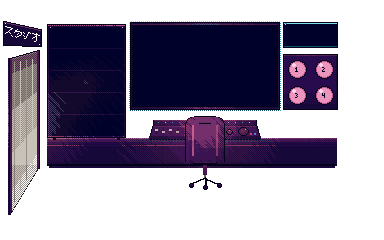
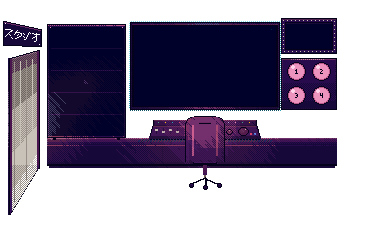
編集室v3: 数字のセンター / 看板のパース / 電飾マーキー
- 数字ボタン: 3x5の字形は中心-1,-2 が真ん中。1pxの左寄りを修正し、4つとも実測ズレ0を確認
  ついでに読みにくかった「3」の中棒を右へつないだ
- 看板「スタジオ」: 上辺+5の上寄せをやめ、列ごとにプレートの中心線へ縦センタリング。
  パースの傾きに沿って本当に描いてあるように見える
  (縦・縦横をパース縮小する案も試作したが9px→6pxで「ジ」の濁点と「オ」が崩れるため不採用)
- 右上を「電飾マーキー」に。小さな電球41個がぐるりと囲み4コマで流れる。
  この部屋の看板として「コンテンツクリエイティブ」を常時掲示(選択で書き換えない)
- 数字ボタンパネルをマーキーの下へ再配置し、ボタンを19pxに

Changed region(s): [[0.7188, 0.0583, 0.9062, 0.4667], [0.0, 0.1167, 0.0938, 0.175]]

diff --git a/contents.html b/contents.html
@@ -37,7 +37,7 @@
 
   /* ─── 重なり順をここで一元管理(レイヤー事故防止) ─── */
   #room { z-index: 1; }
-  #doorGlowStudio, #editblink, #screenglow { z-index: 2; }
+  #doorGlowStudio, #editblink, #marqblink, #screenglow { z-index: 2; }
   #screenbox { z-index: 3; }
   .hs, .mi, .nb, #catname { z-index: 4; }
   #mshadow, #mayu, #pshadow, #patti { z-index: 5; }
@@ -119,6 +119,22 @@
   }
   @media (prefers-reduced-motion: reduce) { #editblink { animation: none; } }
 
+  /* ─── 電飾マーキーの電球がぐるりと流れる(4コマ) ─── */
+  #marqblink {
+    position: absolute; left: 0; top: 18px;
+    width: 384px; height: 36px; pointer-events: none;
+    background-image: url(marquee_blink.png);
+    background-size: 1536px 36px;
+    animation: marqblink 1.0s steps(1) infinite;
+  }
+  @keyframes marqblink {
+    0%, 24.9% { background-position: 0 0; }
+    25%, 49.9% { background-position: -384px 0; }
+    50%, 74.9% { background-position: -768px 0; }
+    75%, 100% { background-position: -1152px 0; }
+  }
+  @media (prefers-reduced-motion: reduce) { #marqblink { animation: none; } }
+
   /* ─── 大スクリーン(中身はここに載る) ─── */
   #screenbox {
     position: absolute; left: 134px; top: 26px;
@@ -191,10 +207,11 @@
 
   /* ─── 右のカテゴリ表示と数字ボタン ─── */
   #catname {
-    position: absolute; left: 286px; top: 24px; width: 49px; height: 22px;
+    position: absolute; left: 286px; top: 23px; width: 46px; height: 26px;
     display: flex; align-items: center; justify-content: center;
     font-family: 'DotGothic16', 'MS Gothic', monospace;
-    color: #b8ecf4; font-size: 6px; line-height: 1.35; text-align: center;
+    color: #fff6e0; font-size: 6px; line-height: 1.6; text-align: center;
+    text-shadow: 0 0 3px rgba(255, 232, 176, .55);
     pointer-events: none;
   }
   .nb {
@@ -353,6 +370,7 @@
     <img id="room" src="room_edit.png" alt="編集室">
     <div id="doorGlowStudio" aria-hidden="true"></div>
     <div id="editblink" aria-hidden="true"></div>
+    <div id="marqblink" aria-hidden="true"></div>
     <div id="screenglow" aria-hidden="true"></div>
 
     <div id="screenbox">
@@ -375,7 +393,7 @@
     <button id="doorStudio" class="hs" style="left:8px;top:48px;width:33px;height:168px;--gi:.4"
             aria-label="スタジオ(トップページ)にもどる"></button>
 
-    <div id="catname" aria-live="polite"></div>
+    <div id="catname">コンテンツ<br>クリエイティブ</div>
 
     <div id="talkbox">
       <span class="name">パッチ</span>
@@ -465,13 +483,12 @@ const CATS = [
 ];
 
 const MENU_TOP = 26, MENU_H = 22;
-const BTN_POS = [[288, 60], [315, 60], [288, 86], [315, 86]];   // 丸ボタン(18x18)の左上
+const BTN_POS = [[287, 62], [312, 62], [287, 86], [312, 86]];   // 丸ボタン(19x19)の左上
 
 const scrwait = document.getElementById('scrwait');
 const scrframe = document.getElementById('scrframe');
 const bookbox = document.getElementById('bookbox');
 const screenglow = document.getElementById('screenglow');
-const catname = document.getElementById('catname');
 
 let cat = 0, num = -1;
 let BOOK = null, bkpage = 0;
@@ -548,7 +565,6 @@ function stopScreen() {
 function selectCat(i) {
   cat = i;
   miEls.forEach((b, k) => b.classList.toggle('sel', k === i));
-  catname.innerHTML = CATS[i].disp;
   nbEls.forEach((b, j) => b.classList.toggle('off', !CATS[i].items[j]));
   stopScreen();
   if (CATS[i].items.length === 0) {

diff --git a/make_room_edit.py b/make_room_edit.py
@@ -101,7 +101,7 @@ def dpatch(l, x, y, w, h, c, den=2, ph=0):
 # 数字(5x5) - 数字ボタン用
 NFONT = {
  '1': "010 110 010 010 111", '2': "110 001 010 100 111",
- '3': "110 001 010 001 110", '4': "101 101 111 001 001",
+ '3': "110 001 011 001 110", '4': "101 101 111 001 001",
 }
 def NTXT(l, x, y, ch, c):
     rows = NFONT[ch].split()
@@ -112,9 +112,9 @@ def NTXT(l, x, y, ch, c):
 # ═══════════════ 主要座標(ここだけ見れば配置が分かる) ═══════════════
 MENU = (47, 24, 79, 114)        # メニューパネル外形 x,y,w,h (デスクに立つボード)
 SCR  = (134, 26, 142, 80)       # スクリーン画面(16:9, センター205=チェアと同心)
-CATP = (283, 22, 55, 26)        # カテゴリ名表示パネル
-BTNP = (283, 54, 55, 56)        # 数字ボタンパネル
-BTNC = [(297, 69), (324, 69), (297, 95), (324, 95)]   # 丸ボタン中心(18px)
+MARQ = (281, 18, 56, 36)        # 電飾マーキー(コンテンツクリエイティブの掲示板)
+BTNP = (281, 58, 56, 52)        # 数字ボタンパネル
+BTNC = [(296, 71), (321, 71), (296, 95), (321, 95)]   # 丸ボタン中心(19px)
 DESK_Y = 138                    # 編集卓の天板
 CHAIR = (185, 116)              # ゲーミングチェア左上(センター205)
 EDITC = (150, 120, 110)         # 編集機 x,y,幅 (センター205)
@@ -251,7 +251,11 @@ for k in range(4):
     R('furniture', 14 + k * 6, 62 - k, 1, 140 - k * 10, 'gray2' if k % 2 else 'gray1')
 
 # ─── 左の看板: スタジオ(白の電飾・TOPの看板と同じ台形様式) ───
-def bake_sign_img(img_name, x0, x1, ytop_fn, yoff, core):
+def bake_sign_img(img_name, x0, x1, ytop_fn, ybot_fn, core):
+    """プレート(台形)に文字が「描いてある」ように焼く。
+    列ごとにプレートの中心線へ縦センタリングするので、パースの傾きに自然に沿う。
+    文字を縦に縮小するパースも試したが、9pxの字が6pxまで潰れて
+    「ジ」の濁点と「オ」が崩れるため、字高は一定にしている。"""
     m = Image.open(os.path.join(WEB, img_name)).convert('RGBA')
     tw, th = m.size
     ox = x0 + (x1 - x0 + 1 - tw) // 2
@@ -260,15 +264,17 @@ def bake_sign_img(img_name, x0, x1, ytop_fn, yoff, core):
         for gx in range(tw):
             if mp[gx, gy][3] > 0:
                 xx = ox + gx
-                PXL('furniture', xx, ytop_fn(xx) + yoff + gy, core)
+                cy_ = (ytop_fn(xx) + ybot_fn(xx)) / 2.0
+                PXL('furniture', xx, int(cy_ - th / 2.0 + 0.5) + gy, core)
 
 obj('スタジオの看板')
 def signS_top(xx):
     return int(21 + 8 * (xx - 4) / 36.0 + 0.5)
+def signS_bot(xx):
+    return int(45 + 1 * (xx - 4) / 36.0 + 0.5)
 for xx in range(4, 41):
-    t = (xx - 4) / 36.0
     ytopS = signS_top(xx)
-    ybotS = int(45 + 1 * t + 0.5)
+    ybotS = signS_bot(xx)
     for yy in range(ytopS, ybotS + 1):
         if yy == ytopS or yy == ybotS:
             c = 'ink'
@@ -281,7 +287,7 @@ for xx in range(4, 41):
         PXL('furniture', xx, yy, c)
 R('furniture', 3, 21, 1, 25, 'ink'); R('furniture', 41, 29, 1, 18, 'ink')
 PXL('furniture', 5, 23, 'wht'); PXL('furniture', 39, 44, 'wht')
-bake_sign_img('sign_studio_s.png', 4, 40, signS_top, 5, 'wht')
+bake_sign_img('sign_studio_s.png', 4, 40, signS_top, signS_bot, 'wht')
 
 # ─── 奥壁: 大スクリーン(壁掛け・16:9) ───
 obj('大スクリーン')
@@ -302,13 +308,25 @@ for yy in range(sy - 3, sy + sh + 3, 2):
     PXL('furniture', sx + sw + 4, yy, 'cyn0')
 PXL('furniture', sx - 5, sy - 5, 'cyn2'); PXL('furniture', sx + sw + 4, sy - 5, 'cyn2')
 
-# ─── 奥壁: カテゴリ名表示パネル(右上) ───
-obj('カテゴリ表示')
-cx, cy, cw, ch = CATP
-O('furniture', cx, cy, cw, ch, 'n0', 'ink')
-R('furniture', cx + 1, cy + 1, cw - 2, 1, 'cyn1')
-R('furniture', cx + 1, cy + ch - 2, cw - 2, 1, 'cyn0')
-PXL('furniture', cx + 2, cy + 2, 'cyn2')
+# ─── 奥壁: 電飾マーキー(この部屋の看板。小さな電球がぐるりと並ぶ) ───
+obj('電飾マーキー')
+cx, cy, cw, ch = MARQ
+O('furniture', cx, cy, cw, ch, 'q1', 'ink')              # 枠(電球の台座)
+R('furniture', cx + 1, cy + 1, cw - 2, 1, 'q3')          # 上面のハイライト
+R('furniture', cx + 1, cy + ch - 2, cw - 2, 1, 'q0')
+O('furniture', cx + 4, cy + 4, cw - 8, ch - 8, 'n0', 'ink')   # 文字が入る暗い面
+R('furniture', cx + 5, cy + 5, cw - 10, 1, 'q0')
+
+# 電球: 枠のふちを2px内側でぐるりと1周し、4pxおきに並べる
+_bl, _bt = cx + 2, cy + 2
+_br, _bb = cx + cw - 3, cy + ch - 3
+_path = ([(x, _bt) for x in range(_bl, _br + 1)] +
+         [(_br, y) for y in range(_bt + 1, _bb + 1)] +
+         [(x, _bb) for x in range(_br - 1, _bl - 1, -1)] +
+         [(_bl, y) for y in range(_bb - 1, _bt, -1)])
+MARQ_BULBS = [_path[i] for i in range(0, len(_path), 4)]
+for (bxb, byb) in MARQ_BULBS:
+    PXL('furniture', bxb, byb, 'ivory2')
 
 # ─── 奥壁: 数字ボタンパネル(右) ───
 obj('数字ボタンパネル')
@@ -320,7 +338,7 @@ for i, (bcx, bcy) in enumerate(BTNC):
     EL('furniture', bcx - 9, bcy - 9, bcx + 9, bcy + 9, fill='pnk1', out='ink')
     EL('furniture', bcx - 7, bcy - 7, bcx + 7, bcy + 7, fill='pnk2')
     EL('furniture', bcx - 5, bcy - 6, bcx - 2, bcy - 3, fill='pnkc')
-    NTXT('furniture', bcx - 2, bcy - 2, str(i + 1), 'ink')
+    NTXT('furniture', bcx - 1, bcy - 2, str(i + 1), 'ink')   # 字形3x5なので中心-1,-2 が真ん中
 
 # ─── 編集卓(壁ぎわのカウンター=ミキサー卓。ボタンいっぱい) ───
 obj('編集卓')
@@ -620,7 +638,8 @@ SOURCES = [
     {'pos': (205, 66),  'r': 155, 's': 1.30, 'e': 1.4, 'tint': P['b4'],   'occ': True},   # 大スクリーン
     {'pos': (205, 24),  'r': 60,  's': 0.40, 'e': 1.4, 'tint': P['cyn1'], 'occ': False},  # アンビエントライト上
     {'pos': (24, 118),  'r': 82,  's': 0.95, 'e': 1.3, 'tint': P['gray2'],'occ': False},  # スタジオの白い灯り
-    {'pos': (311, 82),  'r': 52,  's': 0.50, 'e': 1.4, 'tint': P['pnk2'], 'occ': False},  # 数字ボタン
+    {'pos': (309, 84),  'r': 52,  's': 0.50, 'e': 1.4, 'tint': P['pnk2'], 'occ': False},  # 数字ボタン
+    {'pos': (309, 36),  'r': 62,  's': 0.62, 'e': 1.3, 'tint': P['ivory'], 'occ': False},  # 電飾マーキー
     {'pos': (86, 82),   'r': 46,  's': 0.34, 'e': 1.4, 'tint': P['pnk2'], 'occ': False},  # メニューパネル
     {'pos': (205, 128), 'r': 80,  's': 0.42, 'e': 1.3, 'tint': P['m3'],   'occ': False},  # 編集機のLED
     {'pos': (192, 150), 'r': 185, 's': 0.32, 'e': 1.2, 'tint': P['q5'],   'occ': False},  # 室内バウンス
@@ -688,8 +707,8 @@ def apply_illum(layer):
                     continue    # スタジオの看板
                 if bx + 2 <= xx <= bx + bw - 3 and by + 2 <= yy <= by + bh - 3:
                     continue    # 数字ボタンは光る
-                if cx + 1 <= xx <= cx + cw - 2 and cy + 1 <= yy <= cy + ch - 2:
-                    continue    # カテゴリ表示は発光ディスプレイ
+                if cx <= xx <= cx + cw - 1 and cy <= yy <= cy + ch - 1:
+                    continue    # 電飾マーキーは自ら光る
             rgb = c[:3]
             v = ILL[xx // GS][yy // GS] + (((xx * 7 + yy * 13) % 5) - 2) * 0.02
             tint = TINT[xx // GS][yy // GS][0]
@@ -796,3 +815,16 @@ for f in range(3):
                 bd.point((f * W + lx, ly - BY0), fill=bc)
 blink.save(os.path.join(WEB, "edit_blink.png"))
 print("edit_blink.png", blink.size, "band y", BY0, "h", BBH)
+
+# ── マーキーの電球の流れ(4コマ・ぐるりと回るチェイス) ──
+MY0, MBH = MARQ[1], MARQ[3]
+mq = Image.new("RGBA", (W * 4, MBH), (0, 0, 0, 0))
+mqd = ImageDraw.Draw(mq)
+for f in range(4):
+    for i, (bxb, byb) in enumerate(MARQ_BULBS):
+        if (i + f) % 4 == 0:
+            mqd.point((f * W + bxb, byb - MY0), fill=C('wht'))
+        elif (i + f) % 4 == 1:
+            mqd.point((f * W + bxb, byb - MY0), fill=C('ivory'))
+mq.save(os.path.join(WEB, "marquee_blink.png"))
+print("marquee_blink.png", mq.size, "band y", MY0, "h", MBH, "電球", len(MARQ_BULBS), "個")
